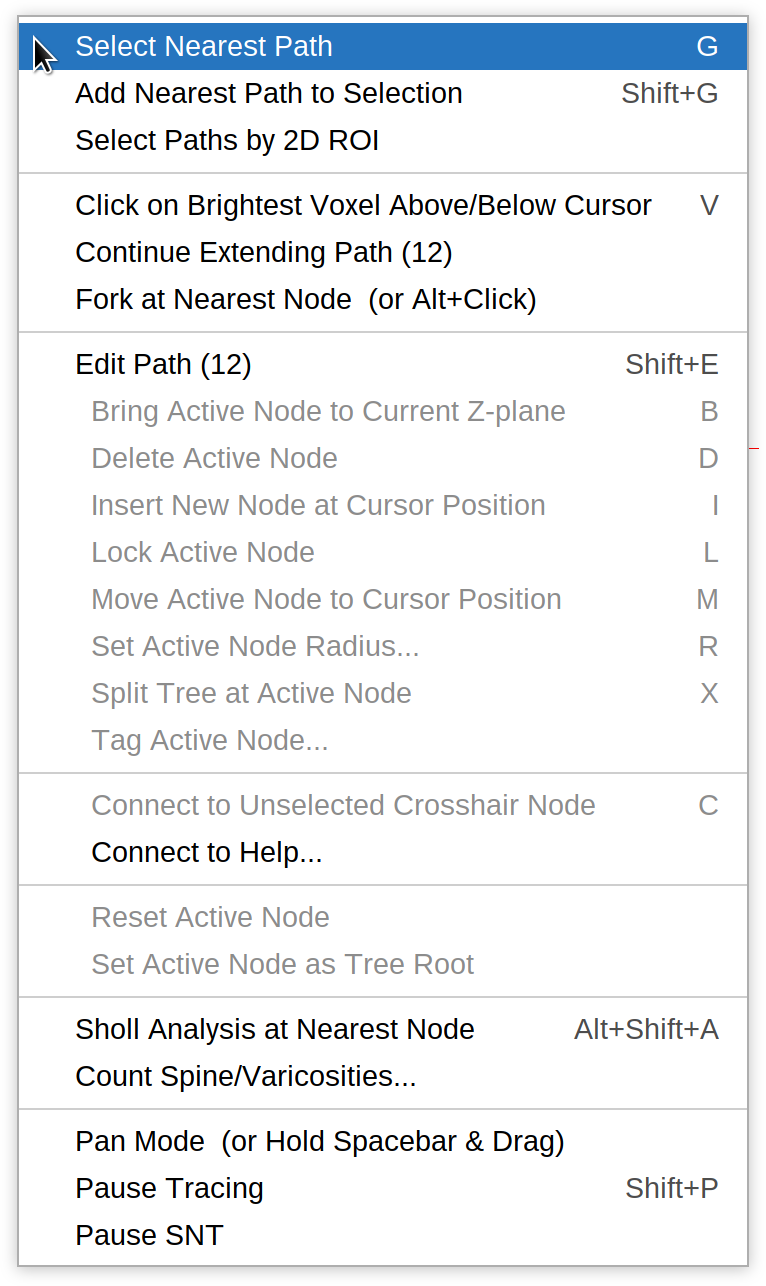
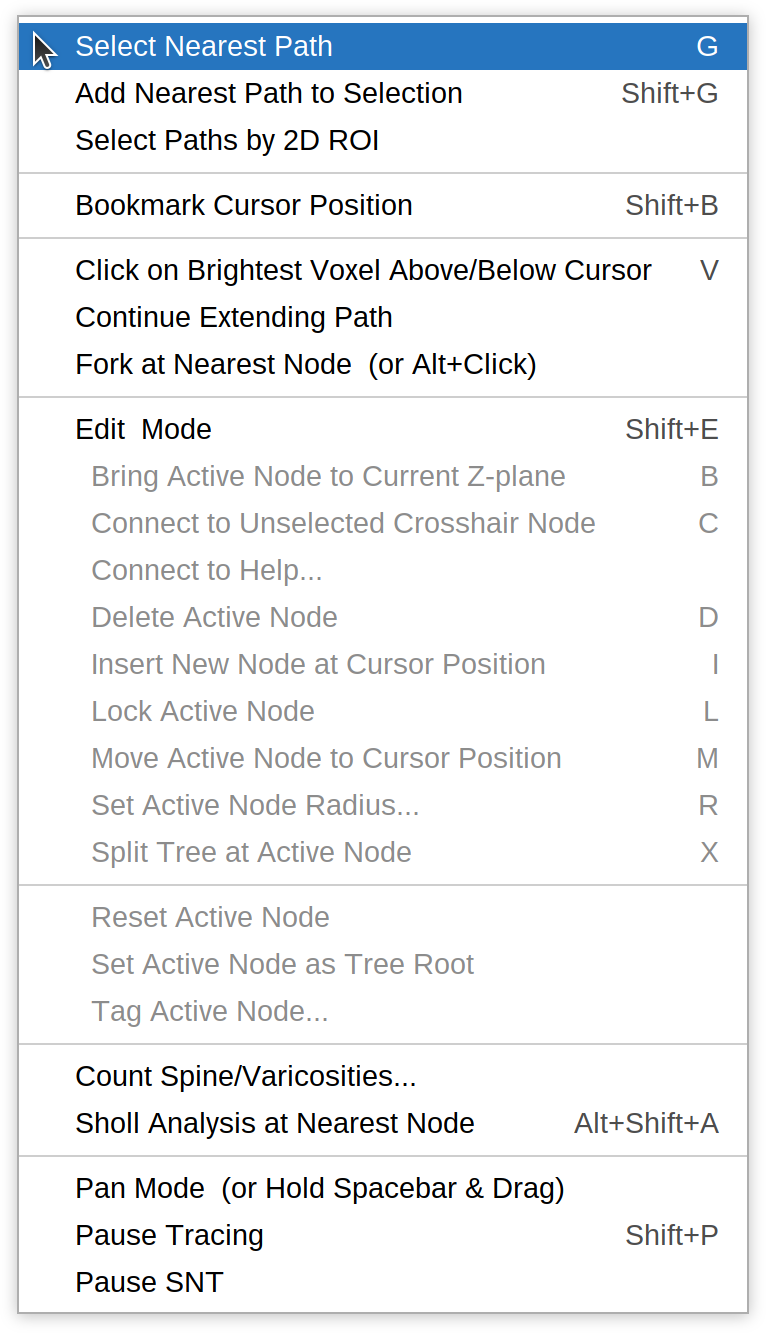
SNT: describe bookmark manager

diff --git a/_pages/plugins/snt/manual.md b/_pages/plugins/snt/manual.md
@@ -445,23 +445,47 @@ This tab aggregates widgets related to 3D interaction.
 
 ### Reconstruction Viewer
 
-The [Reconstruction Viewer](/plugins/snt/reconstruction-viewer) is an advanced, fully scriptable OpenGL viewer enabling 3D visualization and interaction with reconstructions, OBJ meshes (including multiple model organism neuropil annotations and reference brains), computed surfaces (convex hulls) and other shape annotations. For performance reasons, some Path Manager changes may need to be synchronized manually from the RV controls. To open Reconstruction Viewer with the current contents of the Path Manager, press *Open Reconstruction Viewer*. To instead open the viewer press _Reconstruction Viewer_ on the [Shortcuts](#startup) dialog.
+This widget provides an entry point to a dedicated [Reconstruction Viewer](/plugins/snt/reconstruction-viewer) that loads all the paths currently listed in the [Path Manager](#path-manager). Note that the behavior of this dedicated viewer is slightly different from standalone viewers:
+
+- Paths are aggregated under a common "Path Manager Contents" object
+
+- Changes to paths performed in the Path Manager _should_ percolate in real time to the viewer. However, some operations may require manual synchronization using [Sync Path Manager Changes](./reconstruction-viewer#sync-path-manager-changes) in the [Scene Controls](./reconstruction-viewer#scene-controls) menu
+
+- Initializing a viewer from this widget will always load the current contens of the Path Manager. To start a viewer with an empty scene, press *Reconstruction Viewer* on the [Neuroanatomy Shortcuts Window](#snt-commands) dialog
 
 ### sciview
 
-This option assumes you have [sciview](/plugins/sciview) properly installed. sciview is a modern replacement for the Legacy 3D Viewer, providing sophisticated 3D visualization and virtual reality capabilities for arbitrarily large image volumes and meshes. Integration with [Cx3D](https://github.com/morphonets/cx3d) enables simulation of neurodevelopmental processes, including neuronal growth and formation of cortical circuits. See [SNT: Modeling](/plugins/snt/modeling) for details.
+This option assumes [sciview](/plugins/sciview) to be successfully installed. sciview is a modern replacement for the [Legacy 3D Viewer](#legacy-3d-viewer), providing sophisticated 3D visualization and virtual reality capabilities for arbitrarily large image volumes and meshes. sciview scenes support image volumes, meshes, and paths, as well as integration with [Cx3D](https://github.com/morphonets/cx3d). The latter enables simulation of neurodevelopmental processes, including neuronal growth and formation of cortical circuits. See [SNT: Modeling](/plugins/snt/modeling) for details.
 
 ### Legacy 3D Viewer
 
-The Legacy 3D Viewer is a functional tracing canvas, but it depends on outdated services that are now deprecated. It may not function reliably on recent operating systems. For usage instructions, see [Tracing using the Legacy 3D Viewer](/plugins/snt/step-by-step-instructions#tracing-in-the-legacy-3d-viewer).
+The Legacy 3D Viewer is a functional tracing canvas and allows images to be traced interactively in 3D. However, it is no longer actively maintained and _may_ not function reliably on certain hardware. For usage instructions, see [Tracing using the Legacy 3D Viewer](/plugins/snt/step-by-step-instructions#tracing-in-the-legacy-3d-viewer).
+
+<span id="bookmarks"></span>
+<span id="bookmark-manager"></span>
+
+## Bookmarks Tab
+
+This tab hosts the Bookmark Manager, a utility that stores image locations to be (re)visited during tracing (e.g., a location of an ambiguos branching point, or an ambiguous cross-over between two neurites). The basic usage is as follows:
+
+<img align="right" width="300" src="/media/plugins/snt/snt-bookmarks-tab.png" title="Bookmarks tab" />
+
+- Right click on the image and choose {% include bc path='Bookmark Cursor Position' %} from the image contextual menu (shortcut: {% include key key='Shift|B' %}). A new bookmark will be added logging the cursor X, Y, Z, C, T coordinates
+
+- To visit a bookmarked location double-click on its entry. The image will be centered at that position under the speficied zoom in {% include bc path='Preferred Zoom Level (%)' %}
+
+- Use {% include bc path='Import...' %} to load bookmars from a CSV file. Use {% include bc path='Export...' %} to store current list.
+
+- To rename an existing bookmark, select it and start typing its new label. Alternatively, use 
+{% include bc path='Rename Selected Bookmark..' %} command in the list righ-click menu
+
+- Bookmarks can also be transferred to ImageJ's ROI Manager using {% include bc path='Send Selected Bookmarks to ROI Manager...' %} in the list righ-click menu
 
 # Image Contextual Menu
 
 Right-clicking on any of the tracing views will bring up a menu with various editing tools. The corresponding [keyboard shortcuts](/plugins/snt/key-shortcuts) are shown to the right of each option. The list includes:
 
 ## Path Selection
-
-{% include img align="right" width="250" name="contextual menu" src="/media/plugins/snt/snt-contextual-menu.png" %}
 
 ### Select Nearest Path {% include key key='G' %}
 Selects ("<u>G</u>roups") the path closest to the mouse cursor.
@@ -471,6 +495,11 @@ Keeps appending the closest path to the existing path selection.
 
 ### Select Paths by 2D ROI
 A convenience utility to select path(s) quickly (but coarsely). One the command is run, it is possible to "draw" an area ROI around the paths of interest, so that path(s) intersecting ROI boundaries can be selected. The shape of the ROI (rectangle, oval, freehand, etc.) is determined by the area ROI tool currently selected in ImageJ's main toolbar
+
+### Bookmark Cursor Position {% include key key='Shift|B' %}
+Described in [Bookmarks Tab](#bookmarks-tab).
+
+{% include img align="right" width="280" name="contextual menu" src="/media/plugins/snt/snt-contextual-menu.png" %}
 
 ## Tracing
 
@@ -486,7 +515,6 @@ Creates a fork point at the node closest to the mouse cursor. Once a fork point 
 
 ## Editing Paths
 
-<img align="right" src="/media/plugins/snt/snt-path-edit-right-click-menu-active.png" title="Editing paths: contextual menu (v4.2)" width="300" />
 Pressing *Edit Path* with a single path selected will activate *Edit Mode*, unlocking the menu options under *Edit Path*. When *Edit Mode* is active, moving the mouse cursor along the path will highlight the nearest node with a crosshair icon and synchronize the current Z-slice to the location of that node. Note that the ability to create new paths is temporarily disabled when in *Edit Mode*.
 
 ### Bring Active Node to Current Z-plane {% include key key='B' %}
@@ -494,6 +522,8 @@ Moves the active node to the active Z-plane. Note that the translation is only d
 
 ### Connect To (...) {% include key key='C' %}
 Allows two existing paths to be connected, typically under a parent-child relationship. Described in this [walkthrough](/plugins/snt/step-by-step-instructions#mergingjoining-paths).
+
+<img align="right" src="/media/plugins/snt/snt-path-edit-right-click-menu-active.png" title="Editing paths: contextual menu (v4.2)" width="300" />
 
 ### Delete Active Node {% include key key='D' %}
 Removes the active node from the path.

diff --git a/_pages/plugins/snt/key-shortcuts.md b/_pages/plugins/snt/key-shortcuts.md
@@ -23,7 +23,7 @@ The Command Palette is the fastest way to access actions and discover their resp
 3. Press {% include key keys='up' %} or {% include key keys='down' %} to select a command (or use the  {% include key keys='mouse wheel' %})
 4. Press {% include key keys='Enter' %} to run it
 {% endcapture %}
-{% include notice background-color="white" icon="none" content=cmdpalette %}
+{% include notice  icon="info" content=cmdpalette %}
 
 ### Interactive Prompt
 
@@ -63,6 +63,7 @@ These shortcuts are available when running SNT in *Tracing Mode*:
 | {% include key key='V' %}                     | Finds the brightest <u>V</u>oxel above and below the current x,y position and automatically clicks on it. If multiple maxima exist, their average positioning is used. Note that this feature assumes that neurites are brighter than the background |
 | {% include key key='S' %}                     | Toggles cursor <u>S</u>napping: If enabled, the plugin will automatically move the cursor to the brightest voxel within the specified x,y,z snapping window<sup>1</sup>. When set correctly, this facilitates accurate [positioning of path points](/plugins/snt/step-by-step-instructions#accurate-point-placement) |
 | {% include key keys='Alt|Shift|Left Click' %} | Selects a point along the active path to be used as forking point (See [step-by-step instructions](/plugins/snt/step-by-step-instructions#branching-start-a-path-on-an-existing-path) for more details on joining and branching) |
+| {% include key keys='Shift|B' %}              | <u>B</u>ookmarks cursor location |
 | {% include key keys='Shift|E' %}              | Activates *Edit Mode* (<u>E</u>diting of selected Path) |
 | {% include key keys='Shift|P' %}              | <u>P</u>auses tracing operations |
 
